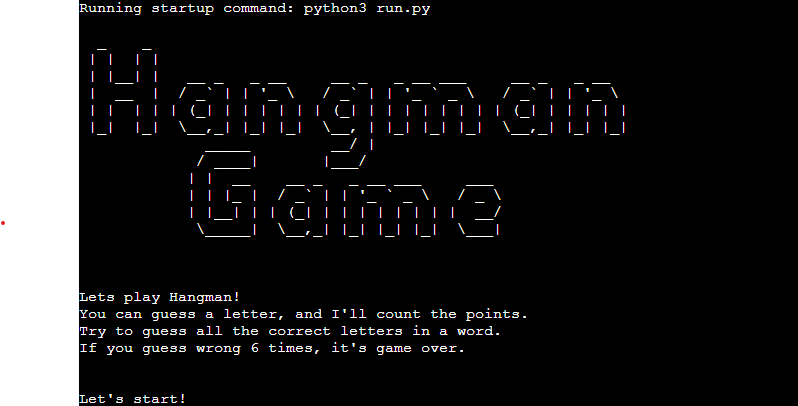
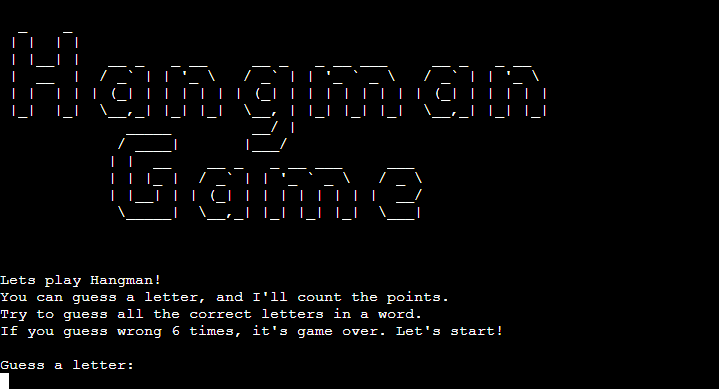
Change: a picture to readme-file

diff --git a/game.py b/game.py
@@ -72,14 +72,14 @@ def game_loop():
         loop_this()
 
     if GAME_ON is not True:
-        if WRONG_ANSWERS == 6:
+        if WRONG_ANSWERS == 7:
             print(f"Sorry, you lost :( The word was {WORD}")
         else:
             print_hangman_win()
             print("Congratulations! You WON!")
 
         lets_continue = input("\nDo you want to play again? Y/N:\n").upper()
-        
+
         if lets_continue == "Y":
             status_quo()
         else:
@@ -97,7 +97,7 @@ def loop_this():
     global GAME_ON
     global WORD
 
-    while WRONG_ANSWERS < 6 and CORRECT_ANSWERS < len(WORD):
+    while WRONG_ANSWERS < 7 and CORRECT_ANSWERS < len(WORD):
         input_guess = user_guess()
 
         if input_guess not in WORD:

diff --git a/utils/logo.py b/utils/logo.py
@@ -19,4 +19,4 @@ def print_logo():
     print("Lets play Hangman!")
     print("You can guess a letter, and I'll count the points.")
     print("Try to guess all the correct letters in a word.")
-    print("If you guess wrong 6 times, it's game over. Let's start!")
+    print("If you guess wrong 7 times, it's game over. Let's start!")
